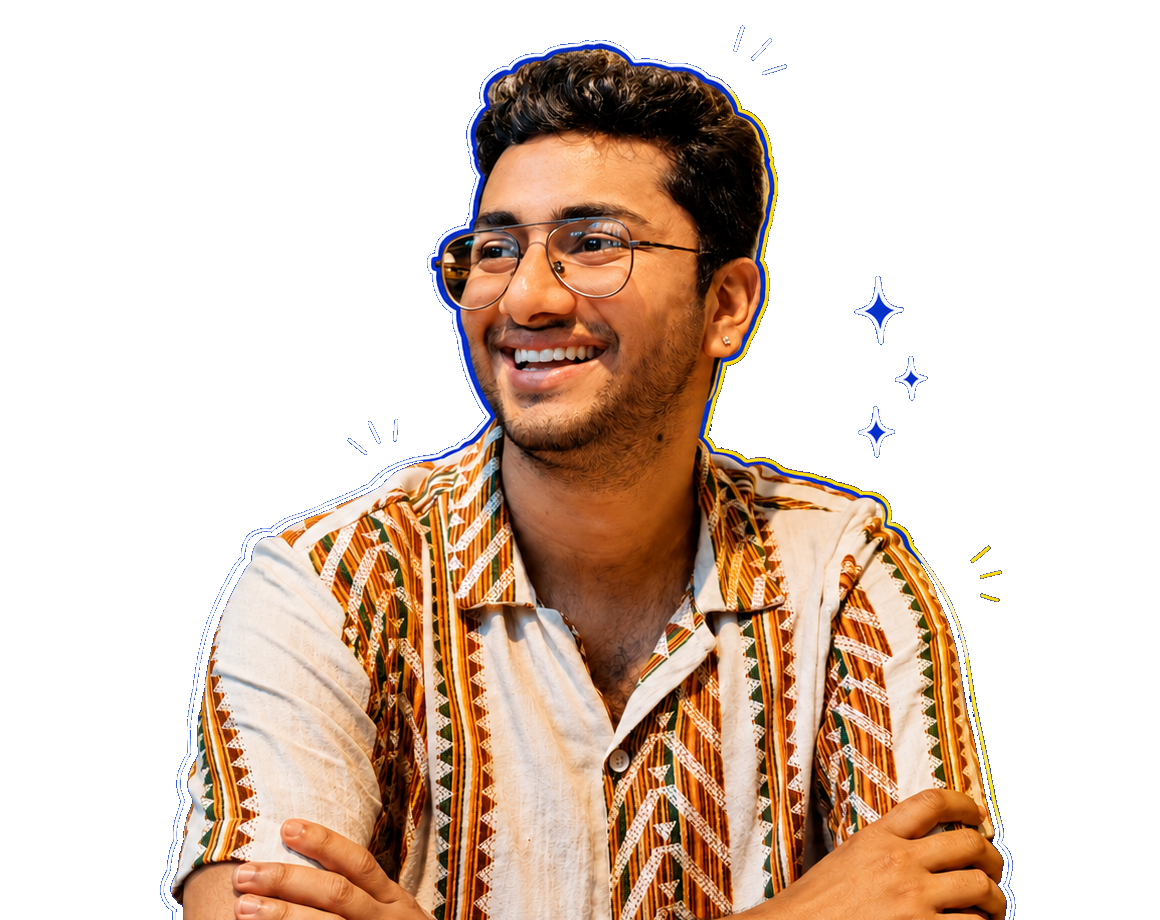
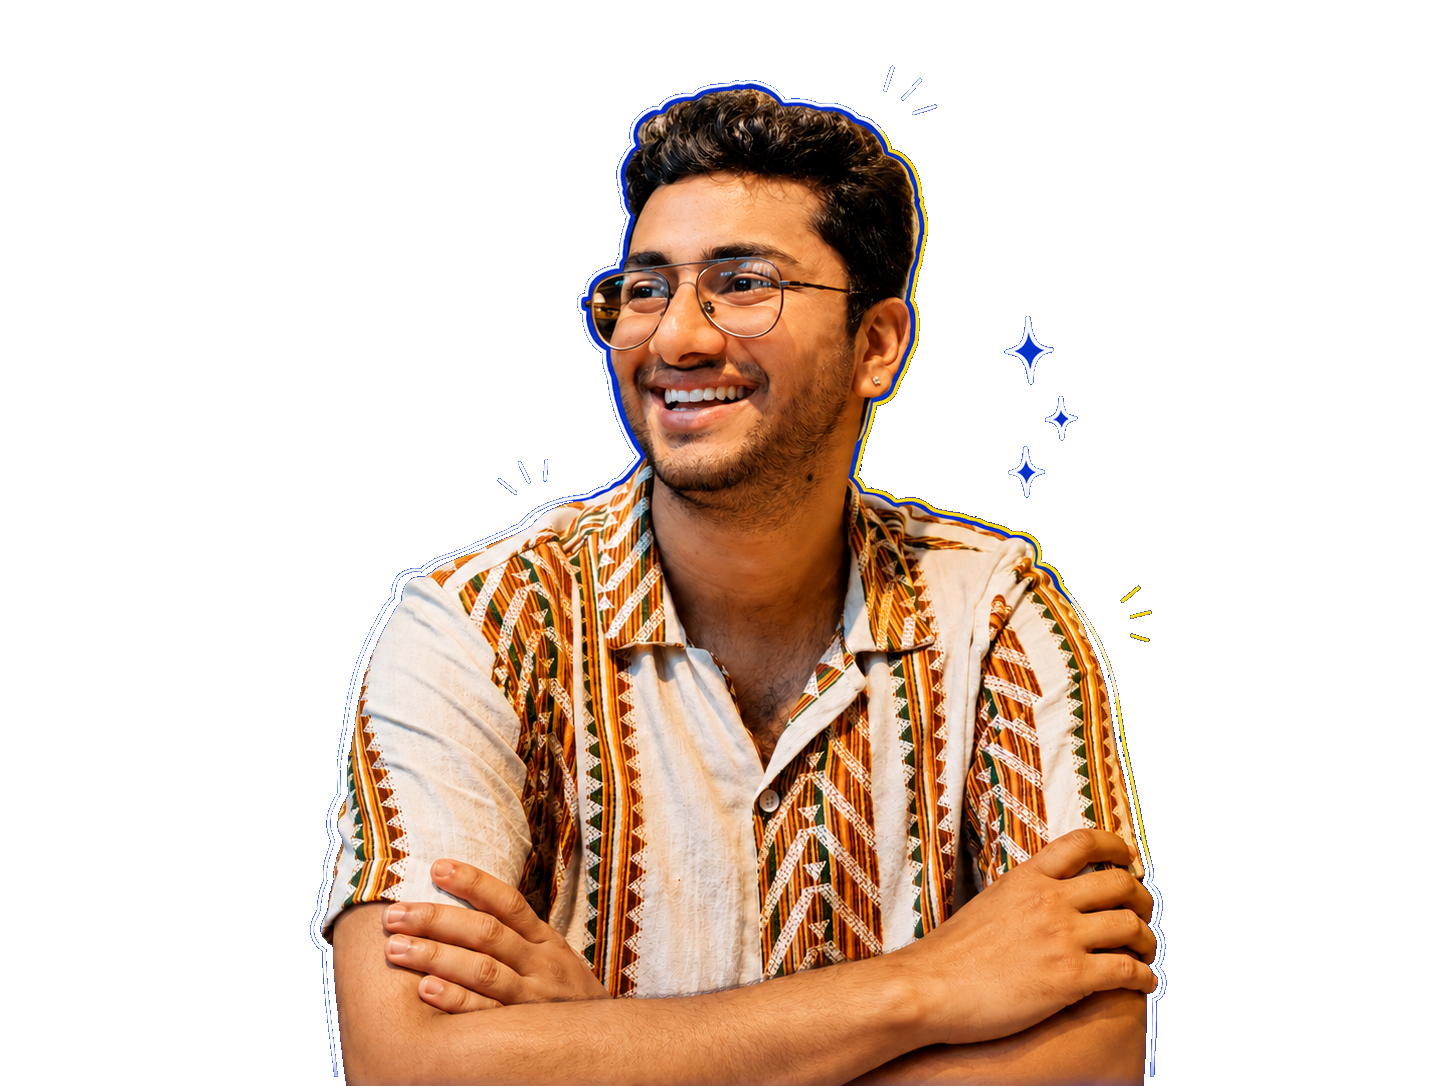
feat(hero): restore original pristine 01_51_01 AM cutout asset with GPU-accelerated RESIZE HUD

diff --git a/src/components/sections/hero.tsx b/src/components/sections/hero.tsx
@@ -39,7 +39,7 @@ export default function Hero() {
       const saved = localStorage.getItem("hero_portrait_scale");
       if (saved) return Number(saved);
     }
-    return 85;
+    return 100;
   });
 
   const [yOffset, setYOffset] = useState(() => {
@@ -47,7 +47,7 @@ export default function Hero() {
       const saved = localStorage.getItem("hero_portrait_y");
       if (saved) return Number(saved);
     }
-    return -20;
+    return 0;
   });
 
   const [showControls, setShowControls] = useState(false);
@@ -63,8 +63,8 @@ export default function Hero() {
   };
 
   const resetControls = () => {
-    setScale(85);
-    setYOffset(-20);
+    setScale(100);
+    setYOffset(0);
     localStorage.removeItem("hero_portrait_scale");
     localStorage.removeItem("hero_portrait_y");
   };
@@ -160,26 +160,22 @@ export default function Hero() {
 
         {/* ---- Live Resizable Cutout Portrait of Pankaj Gupta ---- */}
         <motion.div
-          className="relative z-10 flex flex-col items-center justify-end w-full transition-transform duration-150"
+          className="relative z-10 flex flex-col items-center justify-end w-full max-w-[580px] lg:max-w-[650px] transition-transform duration-75 origin-bottom pointer-events-none"
           style={{
-            maxWidth: `${Math.round(620 * (scale / 100))}px`,
-            marginTop: `${yOffset}px`,
+            transform: `scale(${scale / 100}) translateY(${yOffset}px)`,
           }}
           initial={{ opacity: 0, y: 30, scale: 0.95 }}
-          animate={{ opacity: 1, y: 0, scale: 1 }}
+          animate={{ opacity: 1 }}
           transition={{ duration: 0.8, ease: EASE }}
         >
-          <div
-            className="relative w-full flex items-end justify-center transition-all duration-150"
-            style={{ height: `${Math.round(58 * (scale / 100))}vh`, minHeight: `${Math.round(410 * (scale / 100))}px` }}
-          >
+          <div className="relative w-full h-[58vh] min-h-[420px] max-h-[640px] flex items-end justify-center">
             <Image
               src="/pankaj-hero-cutout.png"
               alt="Pankaj Gupta"
               width={900}
               height={1100}
               priority
-              className="h-full w-auto object-contain object-bottom select-none pointer-events-none"
+              className="h-full w-auto object-contain object-bottom select-none pointer-events-none transform-gpu"
             />
           </div>
         </motion.div>
@@ -415,7 +411,7 @@ export default function Hero() {
               <input
                 type="range"
                 min="50"
-                max="130"
+                max="150"
                 value={scale}
                 onChange={(e) => updateScale(Number(e.target.value))}
                 className="w-full accent-[#FFD400] cursor-pointer"
@@ -431,7 +427,7 @@ export default function Hero() {
               <input
                 type="range"
                 min="-80"
-                max="40"
+                max="60"
                 value={yOffset}
                 onChange={(e) => updateY(Number(e.target.value))}
                 className="w-full accent-[#FFD400] cursor-pointer"
@@ -441,9 +437,9 @@ export default function Hero() {
             {/* Reset Button */}
             <button
               onClick={resetControls}
-              className="mt-2 flex items-center justify-center gap-1.5 rounded border border-white/20 bg-white/10 py-1 text-[10px] uppercase hover:bg-white/20 transition-colors"
+              className="mt-2 flex items-center justify-center gap-1.5 rounded border border-white/20 bg-white/10 py-1 text-[10px] uppercase hover:bg-white/20 transition-colors cursor-pointer"
             >
-              <RotateCcw className="h-3 w-3" /> Reset Default
+              <RotateCcw className="h-3 w-3" /> Reset Default (100%)
             </button>
           </motion.div>
         ) : (
@@ -453,7 +449,7 @@ export default function Hero() {
             title="Open Live Portrait Resizer Controls"
           >
             <SlidersHorizontal className="h-3.5 w-3.5 text-[#FFD400]" />
-            <span className="hidden sm:inline">RESIZE</span>
+            <span className="hidden sm:inline">RESIZE ({scale}%)</span>
           </button>
         )}
       </div>
